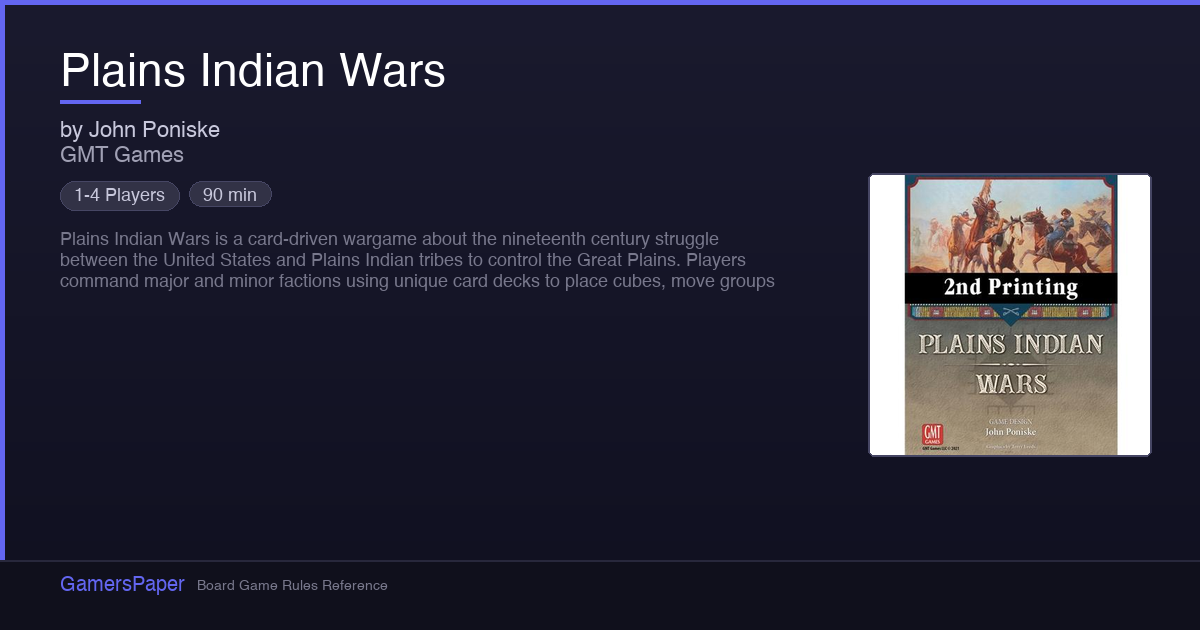
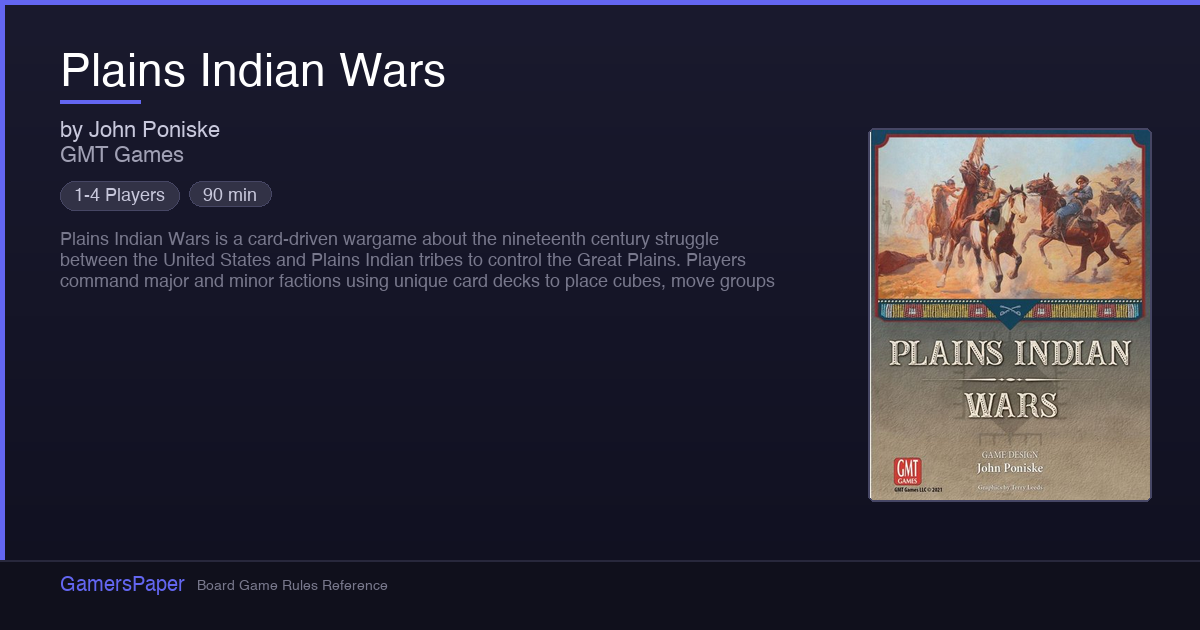
Fix remaining covers, add white-margin validator to CI
- Replace Faiyum, FCM, PIW, Twilight Struggle covers with tightly-cropped
  flat art from BGBliss (no white margins)
- Add validate_cover() to generate_og_images.py that checks for white
  margins on cover edges and fails the build if found (>80% white on 2+ edges)
- CI will now catch bad cover images before they reach production

Changed region(s): [[0.7092, 0.181, 0.9867, 0.8143]]

diff --git a/scripts/generate_og_images.py b/scripts/generate_og_images.py
@@ -253,6 +253,45 @@ def generate_og_image(game_id: str, rules: dict, cover_path: object = None):
     print(f"  Generated: {out_path}")
 
 
+def validate_cover(cover_path, game_id):
+    """Check cover image for white/light background MARGINS (not art that is light).
+    Detects uniform white padding around the image by checking if the outermost
+    rows/columns are mostly the same light color — a sign of uncropped margins.
+    Returns list of warnings. Fails the build if issues are found."""
+    warnings = []
+    img = Image.open(cover_path).convert("RGB")
+    w, h = img.size
+    pixels = img.load()
+
+    def is_near_white(r, g, b):
+        return r > 230 and g > 230 and b > 230
+
+    # Check each edge: what % of the outermost 3px band is near-white?
+    edges = {"top": [], "bottom": [], "left": [], "right": []}
+    for x in range(w):
+        for dy in range(min(3, h)):
+            edges["top"].append(pixels[x, dy])
+            edges["bottom"].append(pixels[x, h - 1 - dy])
+    for y in range(h):
+        for dx in range(min(3, w)):
+            edges["left"].append(pixels[dx, y])
+            edges["right"].append(pixels[w - 1 - dx, y])
+
+    white_edges = []
+    for side, pxs in edges.items():
+        white_pct = sum(1 for r, g, b in pxs if is_near_white(r, g, b)) / len(pxs) * 100
+        if white_pct > 80:
+            white_edges.append(side)
+
+    # Only warn if 2+ edges are white margins (a single light edge could be art)
+    if len(white_edges) >= 2:
+        warnings.append(
+            f"  WARNING: {game_id} cover has white margins on {', '.join(white_edges)} edges. "
+            f"Replace with tightly-cropped flat art or a transparent PNG."
+        )
+    return warnings
+
+
 def main():
     # Load all games: bundled files + registry
     games = {}
@@ -276,6 +315,7 @@ def main():
         sys.exit(1)
 
     print(f"Generating OG images for {len(games)} games...")
+    all_warnings = []
     for game_id, rules in sorted(games.items()):
         # Check for optional cover image (prefer PNG with transparency)
         cover = FILES_DIR / game_id / "cover.png"
@@ -283,7 +323,19 @@ def main():
             cover = FILES_DIR / game_id / "cover.jpg"
         if not cover.exists():
             cover = None
+
+        # Validate cover before generating
+        if cover and cover.exists():
+            all_warnings.extend(validate_cover(cover, game_id))
+
         generate_og_image(game_id, rules, cover)
+
+    if all_warnings:
+        print("\n*** COVER IMAGE ISSUES ***")
+        for w in all_warnings:
+            print(w)
+        print("Fix these before merging — light edges look bad on the dark OG card.")
+        sys.exit(1)
 
     print(f"Done! Generated {len(games)} OG images.")
 
